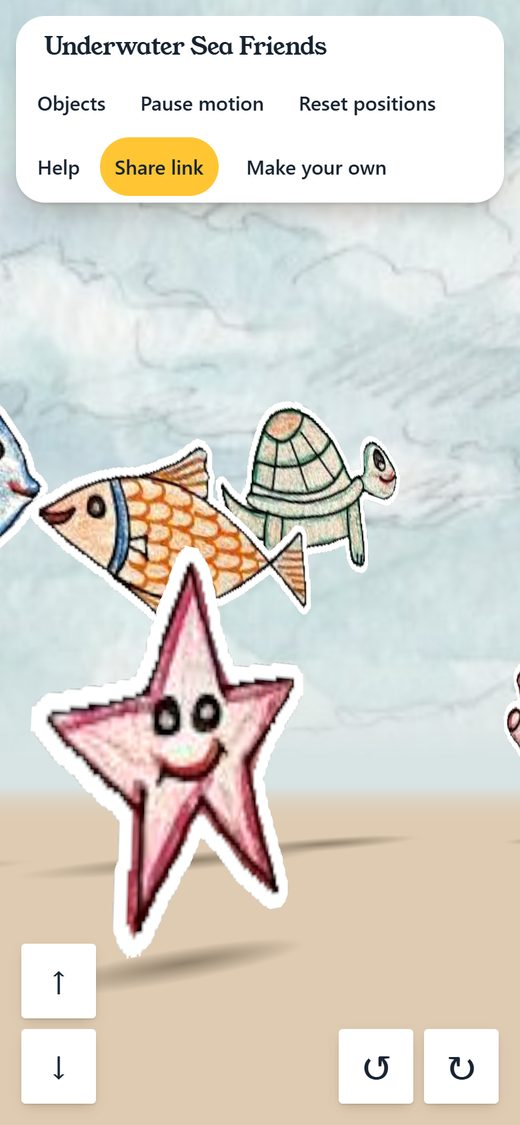
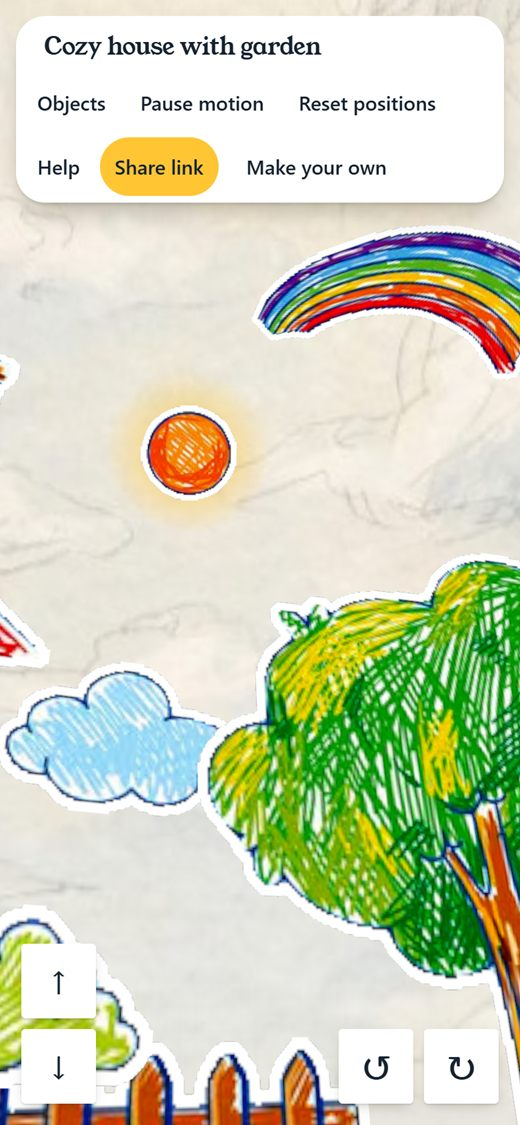
README: screenshots of the new sample worlds (task 11.1, re-opened): hero world-garden.jpg (TyvjYUpV22, 3.jpeg), world-rainbow.jpg (1KFuQknI34, 2.jpeg) in place of the valley, phone and gallery retaken; links to TyvjYUpV22, 1KFuQknI34 and Tco7s8pREl; world-underwater.jpg and world-valley.jpg removed

diff --git a/README.md b/README.md
@@ -2,7 +2,7 @@
 
 Turn a drawing into a small paper pop-up world you can walk through.
 
-![Underwater Sea Friends, a sample world: crayon drawings of fish, a turtle, a starfish, a crab, coral and seaweed stand as paper cut-outs on a sandy floor under a painted sky](docs/screenshots/world-underwater.jpg)
+![Cozy house with garden, a sample world with 20 paper cut-outs from examples/drawings/3.jpeg: a crayon house with a chimney, a rainbow, the sun, clouds, a tree, a fence and a red mushroom stand under a painted sky](docs/screenshots/world-garden.jpg)
 
 Sketch World takes a 2D drawing, either a photo of one on paper or one drawn in the browser, and turns it into a
 walkable, animated 3D paper pop-up world. Meta's Muse Spark lists the objects in the drawing, SAM 3.1 cuts each one
@@ -34,9 +34,9 @@ runs on your own computer with your own Meta Model API key, and needs no Cloudfl
 
 ## What it looks like
 
-The three sample worlds are live: [Underwater Sea Friends](https://sketch-world.shamanthnp.workers.dev/w/wLeiDFftn0),
-[House with Two Trees](https://sketch-world.shamanthnp.workers.dev/w/Tco7s8pREl) and
-[Sunny Valley with River](https://sketch-world.shamanthnp.workers.dev/w/3gQJnD3lHP).
+The three sample worlds are live: [Cozy house with garden](https://sketch-world.shamanthnp.workers.dev/w/TyvjYUpV22),
+[House with tree and rainbow](https://sketch-world.shamanthnp.workers.dev/w/1KFuQknI34) and
+[House with Two Trees](https://sketch-world.shamanthnp.workers.dev/w/Tco7s8pREl).
 
 <table>
   <tr>
@@ -52,12 +52,12 @@ The three sample worlds are live: [Underwater Sea Friends](https://sketch-world.
     <td width="50%"><img src="docs/screenshots/world-house.jpg" width="400" alt="House with Two Trees: a house and two trees as paper cut-outs on green grass, with clouds and the sun under a painted sky"><br>House with Two Trees, under a sky painted by Muse Image.</td>
   </tr>
   <tr>
-    <td width="50%"><img src="docs/screenshots/world-valley.jpg" width="400" alt="Sunny Valley with River: a tree, a river, two brown mountains, a small house and birds as paper cut-outs"><br>Sunny Valley with River: mountains, a river, a house and birds.</td>
+    <td width="50%"><img src="docs/screenshots/world-rainbow.jpg" width="400" alt="House with tree and rainbow: a crayon house with a chimney, a tree, a rainbow, the sun and a cloud as paper cut-outs, seen from low down under a painted sky"><br>House with tree and rainbow, from examples/drawings/2.jpeg.</td>
     <td width="50%"><img src="docs/screenshots/world-move-objects.jpg" width="400" alt="The Objects panel lists tree 1, tree 2, house, three clouds and the sun; the house is selected and its card is highlighted, with arrow buttons to move it"><br>Objects panel: pick the house, then move it with the arrows.</td>
   </tr>
   <tr>
-    <td width="50%"><img src="docs/screenshots/gallery.jpg" width="400" alt="The Gallery with three sample world cards: Underwater Sea Friends, House with Two Trees and Sunny Valley with River"><br>The Gallery with the three sample worlds.</td>
-    <td width="50%"><img src="docs/screenshots/mobile-world.jpg" width="220" alt="Underwater Sea Friends on a phone: the HUD at the top, and on-screen buttons to walk forward and back and to turn"><br>On a phone: hold ↑ or ↓ to walk, tap ↺ or ↻ to turn.</td>
+    <td width="50%"><img src="docs/screenshots/gallery.jpg" width="400" alt="The Gallery with three sample world cards: Cozy house with garden, House with tree and rainbow and House with Two Trees"><br>The Gallery with the three sample worlds.</td>
+    <td width="50%"><img src="docs/screenshots/mobile-world.jpg" width="220" alt="Cozy house with garden on a phone: the HUD at the top, the rainbow, the sun and a tree in the middle, and on-screen buttons to walk forward and back and to turn"><br>On a phone: hold ↑ or ↓ to walk, tap ↺ or ↻ to turn.</td>
   </tr>
 </table>
 
